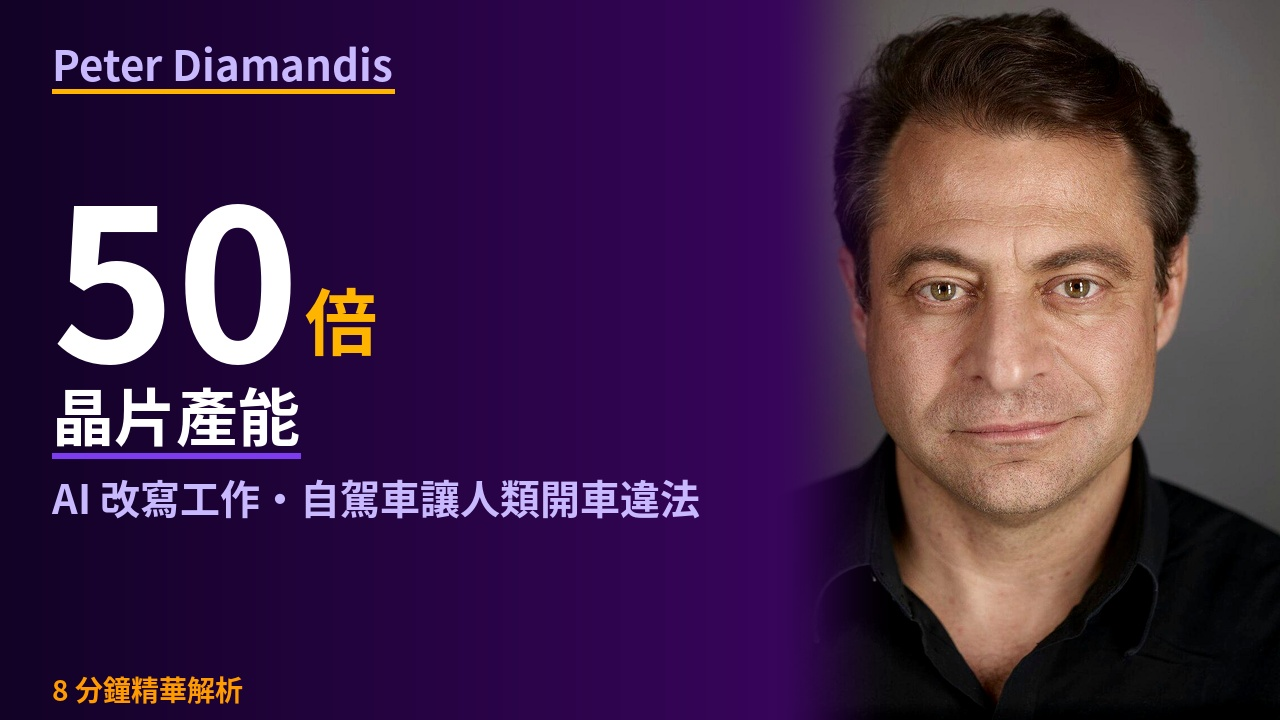
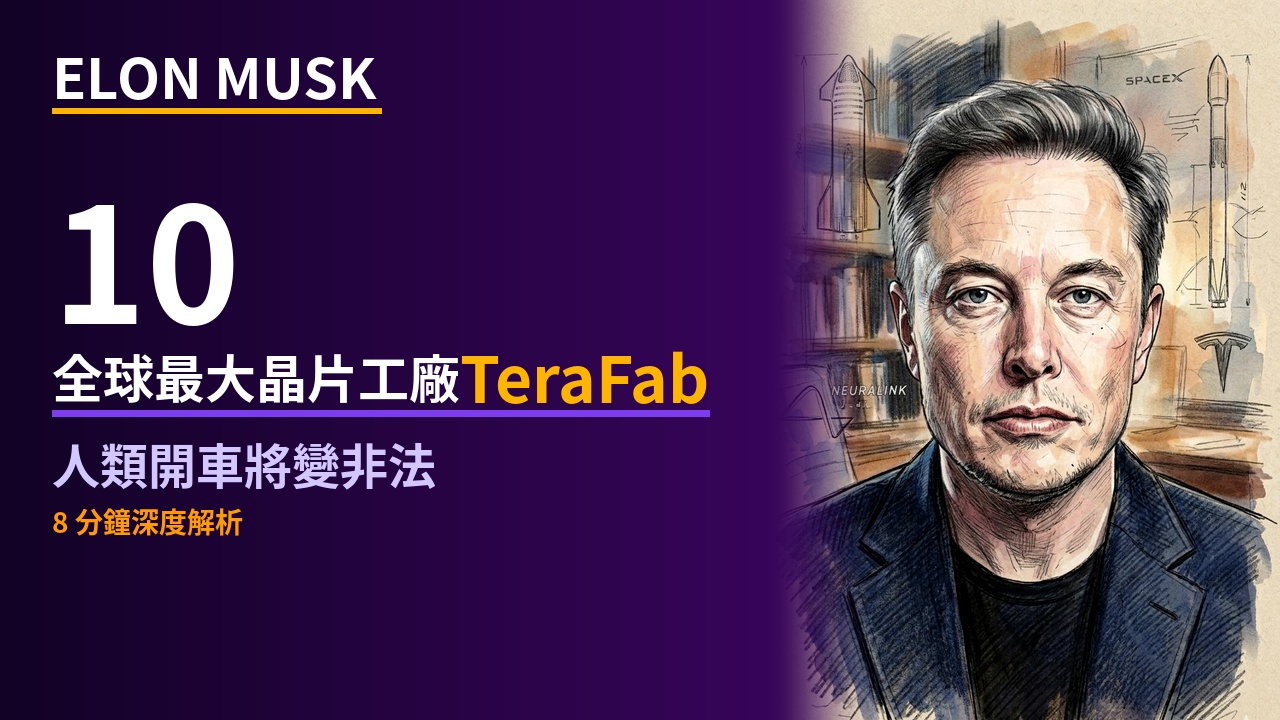
diamandis_ep242: 更換封面人物為 Elon Musk，生成 A/B/C 三版

diff --git a/diamandis_ep242/index.html b/diamandis_ep242/index.html
@@ -98,28 +98,6 @@ footer a { color: #3a5a7a; }
 <h1>94iVoice — diamandis_ep242 <span class="badge stage">🎬 Stage 審閱中</span></h1>
 <div class="notice"><strong>🎬 Stage 審閱</strong><br>請確認影片、封面、YouTube 文案，沒問題後告知「確認上傳」。<br>如需修改腳本 → 告知，重跑 TTS 後重建。如只改文案 → 直接說明。</div>
 <div class="section">
-  <div class="section-title">🖼 YouTube 封面</div>
-  <div style="display:grid;grid-template-columns:1.6fr 1fr;gap:20px;align-items:start;">
-    <div>
-      <a href="thumbnail.jpg" target="_blank">
-        <img src="thumbnail.jpg" style="width:100%;border-radius:8px;border:1px solid #2a2a2a;" loading="lazy">
-      </a>
-      <a href="thumbnail.jpg" download="thumbnail.jpg"
-         style="display:inline-block;margin-top:10px;padding:8px 18px;background:#1e1e1e;border:1px solid #333;border-radius:6px;color:#aaa;text-decoration:none;font-size:0.82em;">
-        ⬇ 下載封面
-      </a>
-    </div>
-    <div style="background:#111;border:1px solid #222;border-radius:10px;padding:18px;font-size:0.82em;line-height:2;">
-      <div style="color:#555;font-size:0.72em;letter-spacing:1.2px;text-transform:uppercase;margin-bottom:10px;">設計說明</div>
-      <div><span style="color:#555;">Speaker</span> </div>
-      <div><span style="color:#555;">大標</span> <span style="color:#fff;font-weight:700;"></span> </div>
-      <div><span style="color:#555;">主文</span>  <span style="color:#FFD700;font-weight:700;"></span></div>
-      <div><span style="color:#555;">副標</span> </div>
-      <div><span style="color:#555;">時長</span> </div>
-    </div>
-  </div>
-</div>
-<div class="section">
   <div class="section-title">🖼 章節背景圖</div>
   <div class="chapter-groups">
     <div class="chapter-group">
@@ -195,88 +173,6 @@ footer a { color: #3a5a7a; }
   <a href="transcript_zh.txt">📄 中文翻譯</a>
   <a href="youtube_meta.json" style="opacity:0.35;pointer-events:none;">📋 YouTube 文案</a>
 </div></div>
-<div class="section">
-  <div class="section-title">📋 YouTube 發布設定</div>
-  <div class="yt-section">
-    <div class="yt-header">
-      <span class="yt-logo">▶</span>
-      <h2>YouTube 文案</h2>
-      <span class="yt-pill">🔒 未上傳（私人）</span>
-    </div>
-    <div class="yt-field"><label>標題</label><div class="val title-val">Elon 要建全球最大晶片工廠，人類開車將變非法，AI 正在改寫職場規則</div></div>
-    <div class="yt-field"><label>描述</label><div class="val">Peter Diamandis 和登月計劃播客團隊，花兩小時拆解了三件正在改變世界的事：Elon 的 TeraFab 晶片帝國、自駕車讓人類開車變違法，以及 AI 大洗牌。
-
-🔑 本集重點：
-1. TeraFab：Elon 要建年產一太瓦算力的超級晶片廠，是全球現有產能的 50 倍
-2. 自駕車：Waymo 事故減少 92%，人類開車終將違法，城市 60% 停車場將消失
-3. AI 大洗牌：企業未來只需 20-25% 員工，貝佐斯千億基金收購老牌企業用 AI 改造
-
-📌 時間章節：
-00:00 開場
-00:44 一、TeraFab：Elon 的晶片銀河工廠
-02:08 二、自駕車：人類開車終將違法
-03:53 三、AI 大洗牌：工作消失只是第一步
-05:23 結語
-
-📺 原始來源：
-Peter H. Diamandis — Elon Enters the Chip Race, the S&amp;P 500 Repricing, and Human Drivers Will Become Illegal | EP #242
-https://youtu.be/wMLcIWLlcWg
-
-🎙 94iVoice — AI 與科技深度解析
-歡迎訂閱 → https://www.youtube.com/@94ivoice
-
-#Elon #AI #自駕車 #晶片 #科技 #94iVoice</div></div>
-    <div class="yt-field"><label>標籤</label><div class="yt-tags"><span class="yt-tag">Elon Musk</span><span class="yt-tag">TeraFab</span><span class="yt-tag">AI</span><span class="yt-tag">自駕車</span><span class="yt-tag">Waymo</span><span class="yt-tag">晶片</span><span class="yt-tag">科技</span><span class="yt-tag">Peter Diamandis</span><span class="yt-tag">94iVoice</span><span class="yt-tag">人工智慧</span></div></div>
-  </div>
-</div>
-<div class="section">
-  <div class="section-title">🎙 Spotify Podcast 發布設定</div>
-  <div class="yt-section">
-    <div class="yt-header">
-      <span style="color:#1DB954;font-size:1.4em;">🎵</span>
-      <h2>Spotify Podcast 文案</h2>
-      <span class="yt-pill" style="background:#0d2a1a;color:#1DB954;border-color:#1a4a2a;">Spotify</span>
-    </div>
-    <div style="display:flex;gap:20px;align-items:flex-start;margin-bottom:16px;flex-wrap:wrap;">
-      <img src="cover_spotify.jpg" style="width:140px;height:140px;object-fit:cover;border-radius:8px;border:1px solid #2a2a2a;flex-shrink:0;" loading="lazy">
-      <div style="flex:1;min-width:200px;">
-        <div class="yt-field"><label>集數標題</label><div class="val title-val">Elon 要建全球最大晶片工廠，人類開車將變非法，AI 正在改寫職場規則</div></div>
-        <div style="display:flex;gap:10px;flex-wrap:wrap;margin-top:8px;">
-          <a href="audio_spotify.mp3" download="audio_spotify.mp3" class="pod-dl-btn">⬇ 音訊 MP3 (160kbps)</a>
-          <a href="cover_spotify.jpg" download="cover_spotify.jpg" class="pod-dl-btn">⬇ 封面 1400×1400</a>
-        </div>
-      </div>
-    </div>
-    <div class="yt-field"><label>節目描述</label><div class="val" style="max-height:300px;overflow-y:auto;">Peter Diamandis 和登月計劃播客團隊，花兩小時拆解了三件正在改變世界的事：Elon 的 TeraFab 晶片帝國、自駕車讓人類開車變違法，以及 AI 大洗牌。
-
-🔑 本集重點：
-1. TeraFab：Elon 要建年產一太瓦算力的超級晶片廠，是全球現有產能的 50 倍
-2. 自駕車：Waymo 事故減少 92%，人類開車終將違法，城市 60% 停車場將消失
-3. AI 大洗牌：企業未來只需 20-25% 員工，貝佐斯千億基金收購老牌企業用 AI 改造
-
-📌 時間章節：
-
-📺 原始來源：
-Peter H. Diamandis — Elon Enters the Chip Race, the S&amp;P 500 Repricing, and Human Drivers Will Become Illegal | EP #242
-https://youtu.be/wMLcIWLlcWg
-
-🎙 94iVoice — AI 與科技深度解析
-
-#Elon #AI #自駕車 #晶片 #科技 #94iVoice</div></div>
-    <div class="yt-field"><label>標籤</label><div class="yt-tags"><span class="yt-tag">Elon Musk</span><span class="yt-tag">TeraFab</span><span class="yt-tag">AI</span><span class="yt-tag">自駕車</span><span class="yt-tag">Waymo</span><span class="yt-tag">晶片</span><span class="yt-tag">科技</span><span class="yt-tag">Peter Diamandis</span><span class="yt-tag">94iVoice</span><span class="yt-tag">人工智慧</span></div></div>
-    <div style="margin-top:14px;padding:10px 14px;background:#0d1a0d;border:1px solid #1a3a1a;border-radius:6px;font-size:0.78em;color:#6a9a6a;line-height:1.8;">
-      📋 <strong>Spotify 規格</strong>：音訊 MP3 · 96–320kbps · 封面 JPEG 1400×1400px（正方形）· 影片 MP4/MOV 1080p H.264（選填）
-    </div>
-    <div style="margin-top:12px;">
-      <a href="https://creators.spotify.com" target="_blank"
-         style="display:inline-flex;align-items:center;gap:8px;padding:10px 20px;
-                background:#1DB954;color:#000;font-weight:700;font-size:0.88em;
-                border-radius:8px;text-decoration:none;">
-        🎙 前往 Spotify for Creators 上傳
-      </a>
-    </div>
-  </div>
-</div>
 <footer>94iVoice 愛播客 Stage 預覽頁 &nbsp;·&nbsp; 來源：<a href="#" target="_blank">原始影片</a></footer>
 </div>
 <script>
